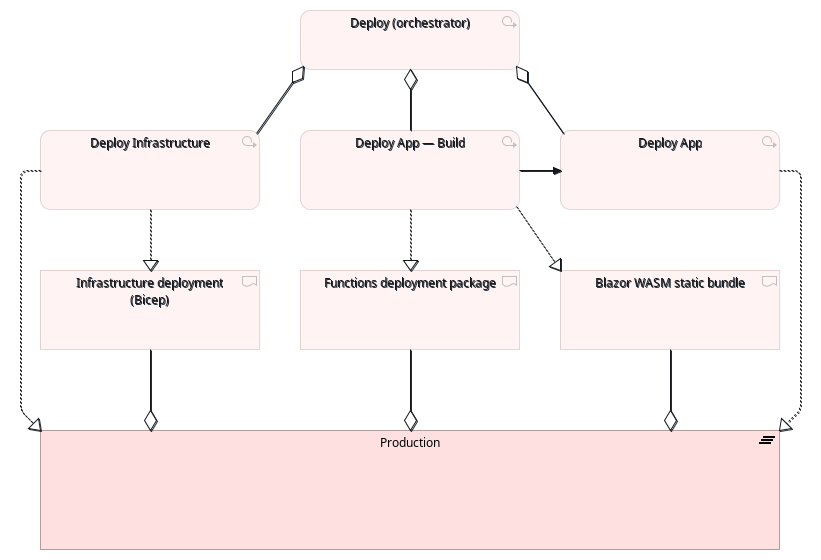
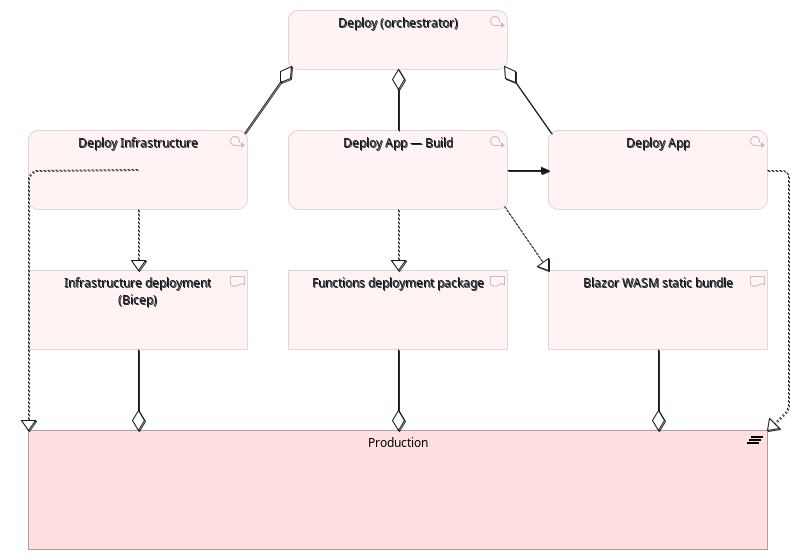
Refresh architecture model

diff --git a/docs/architecture/README.md b/docs/architecture/README.md
@@ -2,7 +2,9 @@
 
 ArchiMate® 3.2 model of the LFM application — Blazor WebAssembly SPA + Azure Functions API + Cosmos / Storage / Key Vault on a single-environment Azure deployment. The canonical source is [`lfm.oef.xml`](lfm.oef.xml), serialised in The Open Group **Model Exchange File Format** (OEF) so it loads in Archi, BiZZdesign, Sparx EA, and any ArchiMate-conformant tool.
 
-The model was lifted from the repository's .NET solution, Bicep IaC, and GitHub Actions workflows (Application + Technology + Implementation & Migration layers). Strategy, Business, and Motivation elements are stubbed `FORWARD-ONLY` — they exist as placeholders for the architect to fill in; their names are inferred from the application surface and have not been validated against business stakeholders.
+The model was rebuilt on 2026-04-27 with `souroldgeezer-design:architecture-design` 0.11.1 from the repository's .NET solution, Bicep IaC, and GitHub Actions workflows (Application + Technology + Implementation & Migration layers). It carries the `propid-archi-model-banded=v2` marker for the current Sugiyama-v1 layout contract. Strategy, Business, and Motivation elements are stubbed `FORWARD-ONLY` — they exist as placeholders for the architect to fill in; their names are inferred from the application surface and have not been validated against business stakeholders.
+
+The previous canonical OEF was preserved as [`backups/lfm.oef.2026-04-27.xml`](backups/lfm.oef.2026-04-27.xml) before this rebuild.
 
 ## Views
 
@@ -137,4 +139,4 @@ When `*.oef.xml` changes, regenerate and commit the corresponding files in [`ren
 | Implementation & Migration | [`.github/workflows/`](../../.github/workflows/) (12 workflows: ci, deploy, deploy-infra, deploy-app-build, deploy-app, e2e, analyze-infra, secrets-scan, license-compliance, dep-license-check, stryker-nightly, dependabot-auto-merge) |
 | Strategy / Business / Motivation | **FORWARD-ONLY** — architect-authored placeholders |
 
-Re-extracting the model is a clean operation: delete `lfm.oef.xml` and re-run the `souroldgeezer-design:architecture-design` skill in Extract mode. Hand edits made in Archi survive re-extraction when the OEF is round-tripped.
+Re-extracting the model is a clean operation: back up `lfm.oef.xml`, replace it by re-running the `souroldgeezer-design:architecture-design` skill in Extract mode, regenerate `renders/`, and refresh this README. Hand edits made in Archi survive merge-style re-extraction when the OEF is round-tripped; a full rebuild intentionally starts from the current source and emits fresh layout coordinates.
